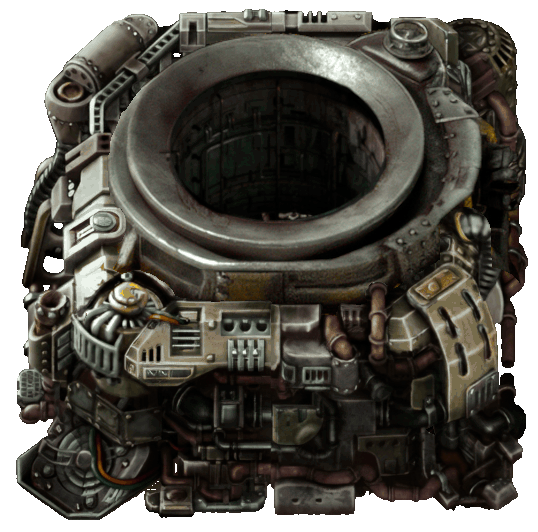
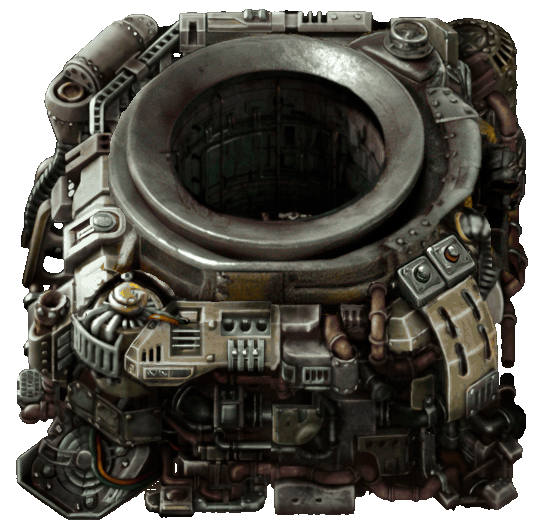
.

Changed region(s): [[0.7138, 0.4211, 0.8922, 0.6015]]

diff --git a/README.md b/README.md
@@ -13,13 +13,18 @@ The revolutionary thing is the big chest extender — a chest that will connect 
 
 Effectively, the Big chest extender lets you have chests of virtually any shape, and they will complain about misconfiguration.
 
+## Space platform access ports
+
+Through the very logistical technology that allows space platforms to construct themselves, you can now access the contents of your space platform hub from (almost) anywhere on the platform surface, using the new space access platform port (SPAP).
+
+Very useful for your direct insertion orbital soup builds.
+
 ## More to come
 
 Additional storage solutions are planned:
 
 - Long chests and wide chests and even bigger chests --- warehouses, basically
 - "Item tanks" that contain enormous amounts of just a single item
-- A space platform hub access bay(?)
 
 ## Graphics attributions
 
